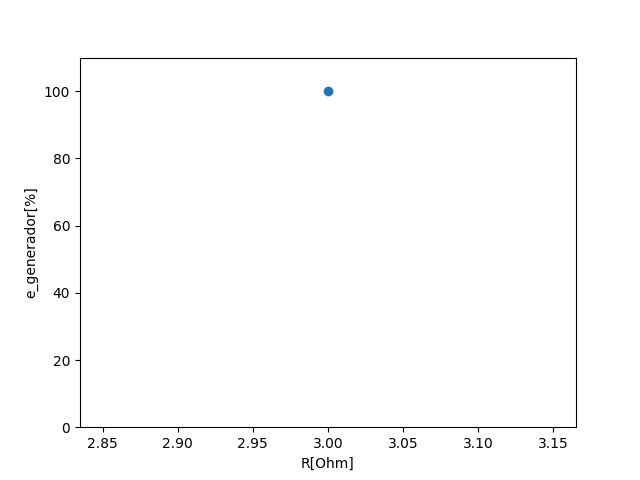
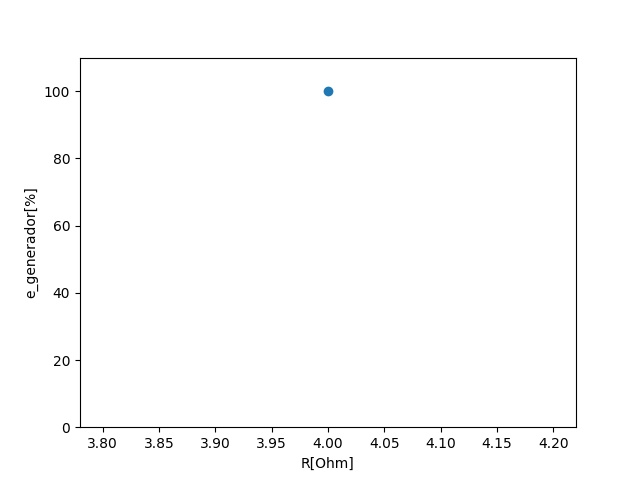
Version al 85%

diff --git a/Web/templates/datos.html b/Web/templates/datos.html
@@ -12,7 +12,7 @@
                 <th>Tiempo</th>
                 <th>Potencia</th>
                 <th>Eficiencia del generador</th>
-                <th>Eficiencia del motor</th>
+                <th>Eficiencia de la turbina</th>
             </tr>
         </thead>
         <tbody>

diff --git a/Web/graficas.py b/Web/graficas.py
@@ -1,11 +1,7 @@
 import matplotlib as mlp
 mlp.use('Agg')
 import matplotlib.pyplot as plt
-#from numba import  jit
-#Módulos propios
-#import gatheringData as gDa
 
-#Poner conex
 r = (12/1.87) #[Ohm]
 listaP = []
 listaRPM = []
@@ -31,20 +27,7 @@ P = 0
 em = 0
 ed = 0
 
-'''ax.plot(rpm, em,'o-')
-ax.set_xlabel('RPM')
-ax.set_ylabel('ef_m[%]')'''
 
-#axem.plot(R , em)#, 'o-')
-#axem.set_xlabel('R[Ohm]')
-#axem.set_ylabel('e_generador[%]')
-'''axet.plot(R , ed , 'o')
-axet.set_xlabel('R[Ohm]')
-axet.set_ylabel('e_motor[%]')'''
-#axet.plot(rpm , P , 'o-')
-#plt.show()  
- 
-#@jit 
 def graficaPotencia(arduino_lectures):
     
     displayList = []
@@ -65,13 +48,6 @@ def graficaPotencia(arduino_lectures):
     listalRpms = []
     mlp.rcParams.update({'font.size': 10})
     pivote2=1
-    
-    '''for j in range(len(arduino_lectures)):
-        RList = arduino_lectures[j][0]
-        rpmList = arduino_lectures[j][1]'''
-        #PList = arduino_lectures[j][7]
-        #efgList = arduino_lectures[j][8]
-        #efmList = arduino_lectures[j][9]
     
     if len(arduino_lectures) >= 7:
         for i in range(len(arduino_lectures)):
@@ -118,7 +94,7 @@ def graficaPotencia(arduino_lectures):
                             
                 except ZeroDivisionError:
                     print("errors")
-            if len(listaR)==49:
+            if len(listaR)==39:
                 print("final antes de agregar: ",listalr)
                 print("final Pot antes de agregar: ",listalP)
                 print("final Em antes de agregar: ",listalEm)
@@ -210,9 +186,9 @@ def graficaPotencia(arduino_lectures):
                 ax.plot(psR, psEd,'o-')
                 ax.set_ylabel([0,110])
                 ax.set_xlabel('R[Ohm]')
-                ax.set_ylabel('e_dinamo[%]')
+                ax.set_ylabel('e_turbina[%]')
                 plt.savefig('static/img/imageEfTurbina.jpg')
-                plt.show()
+
                 listaR.clear()
                 listaR1.clear()
                 listaR2.clear()
@@ -224,30 +200,3 @@ def graficaPotencia(arduino_lectures):
                 print("Lista Em vacía: " , listaR2)
                 print("Lista RPM vacía:" , listaR4)
     
-    #ax.plot(PList,rpmList, 'o-')
-    ##ax.plot(rpm, ed,'o-')
-    #ax.plot(listaefm, listaRPM,'o-')
-    #ax.plot(listaRPM, listaefm,'o-')
-    #ax.set_xlabel('RPM')
-    #ax.set_ylabel('ef_m[%]')
-    #plt.show()
-    #plt.savefig('static/img/image.jpg') 
-    
-    '''
-    axem.plot(psR , ed , 'o-')
-    axem.plot(listaefm , listaR  , 'o-')
-    axem.plot(listaR , listaeft  , 'o-')
-    axem.set_xlab0el('R[Ohm]')
-    axem.set_ylabel('e_generador[%]')
-    plt.savefig('static/img/imageEfmotor.jpg')
-
-    #axet.plot(R , em , 'o-')
-    #axet.plot(listaefm , listaR , 'o-')
-    ##axet.plot(listaR , listaefm , 'o-')
-    axet.set_xlabel('R[Ohm]')
-    axet.set_ylabel('e_motor[%]')
-    plt.savefig('static/img/imageEfTurbina.jpg')'''
-
-    
-#arduino_lectures = [[398.0, 0.0, 0.0, 0.0, 1.0, 0.0002, 1213.0], [399.0, 0.0, -225.0, -0.0422, -1.0, -0.0002, 1216.0], [400.0, 0.0, 0.0, 0.0, 1.0, 0.0002, 1219.0], [401.0, 0.0, 0.0, 0.0, 0.0, 0.0, 1222.0], [402.0, 0.0, 0.0, 0.0, -1.0, -0.0002, 1225.0], [403.0, 0.0, 5.0, 0.0009, 1.0, 0.0002, 1228.0], [404.0, 0.0, 0.0, 0.0, 1.0, 0.0002, 1231.0], [405.0, 0.0, 0.0, 0.0, 0.0, 0.0, 1234.0], [406.0, 0.0, 4.0, 0.0007, 0.0, 0.0, 1237.0], [407.0, 0.0, 0.0, 0.0, -1.0, -0.0002, 1240.0], [408.0, 0.0, 0.0, 0.0, 0.0, 0.0, 1243.0], [409.0, 0.0, 2.0, 0.0004, 1.0, 0.0002, 1246.0], [410.0, 0.0, 0.0, 0.0, 0.0, 0.0, 1249.0], [411.0, 0.0, 0.0, 0.0, 0.0, 0.0, 1252.0]]
-#graficaPotencia(1)

diff --git a/Manual/Manual_de_usuario.md b/Manual/Manual_de_usuario.md
@@ -14,55 +14,75 @@
 
 
 
+
+
+
+
+
+
+
+
+
+
+
+
 ## Índice:
 
 
 
 
 
-1. ### Instalación
+1. ### Instalación y conexión.
 
    
 
-    1. #### Mac OS y Ubuntu
+    1. #### Mac OS y Ubuntu.
 
-    2. #### Windows
+    2. #### Windows.
 
        
 
-2. ### Adquisición de datos
+2. ### Inicio.
 
-   
+     
 
-3. ### Reportes
+3. ### Adquisición de datos.
 
-   
+    
 
-4. ### Consultas a datos
+4. ### Reportes.
 
-   
+    
 
-5. ### Consultas a reportes
+5. ### Consultas a datos.
 
+    
 
-
-
-
-
+6. ### Consultas a reportes.
 
 
 
-# 1. Instalación
 
 
 
-1.1. Mac OS y Ubuntu
+
+
+
+# 1. Instalación.
+
+
+
+## 1.1. Mac OS y Linux.
 
 Ingrese a: https://github.com/IsauraRs/Turbina y en la pestaña "Code", seleccione la opción "Download ZIP". 
 
-Nota: de click derecho sobre el enlace y seleccione "Abrir enlace en una nueva pestaña" o saldrá del manual.
+_**Nota**: de click derecho sobre el enlace y seleccione "Abrir enlace en una nueva pestaña" o saldrá del manual._
+
+
 
 ![downloads](https://github.com/IsauraRs/Turbina/blob/master/Manual/downloadSS.png)
+
+
 
 Una vez terminada la descarga, extraiga la carpeta "Turbina-master" en una ubicación que conozca y/o recuerde.
 
@@ -80,23 +100,160 @@ Y después:
 
 Lo siguiente que aparecerá en su terminal debe parecerse a:
 
+
+
 ![macSS](https://github.com/IsauraRs/Turbina/blob/master/Manual/macSS.png)
+
+
 
 En  MacOS, o a:
 
+
+
 ![ubuntuSS](https://github.com/IsauraRs/Turbina/blob/master/Manual/ubuntuSS.png)
 
-En Ubuntu. Es probable que a usted no le aparezcan las alertas que aparecen en amarillo.
 
-Una vez realizado este paso, salga a la carpeta "Turbina-master" e ingrese a  la carpeta "Web" (en la terminal), ya que haya ingresado escriba el siguiente comando:
+
+En Linux. Es probable que a usted no le aparezcan las alertas que aparecen en amarillo.
+
+_**Nota** : En caso de que aparezca un error con pyserial o serial, tendrá que desinstalarlas e instalarlas manualmente de la siguiente manera._
+
+```
+sudo pip3 uninstall pyserial
+```
+
+```
+sudo pip3 install pyserial
+```
+
+Para el caso de pyserial. Y:
+
+```
+pip3 uninstall serial
+```
+
+```
+sudo pip3 install serial
+```
+
+
+
+## Conexión.
+
+En MacOS: ingrese al menú en el logo "Apple", de click en "Preferencias del Sistema" y posteriormente de click en "Bluetooth".
+
+ Busque en la lista el dispositivo de nombre "GUS", de click en él y luego en "Conectar", en caso de que solicite la contraseña ingrese " 1234 " o " 0000 ".
+
+En Linux: Ingrese a "Configuración", diríjase a "Bluetooth" y seleccione el dispositivo de nombre "GUS", ingrese la contraseña " 1234 ", en caso de que la contraseña sea incorrecta, ingrese " 0000 ".
+
+Si su distribución es Ubuntu (o alguna distribución basada en Debian) y falla la conexión con el paso anterior, vaya nuevamente a "Configuración", seleccione el dispositivo "GUS", revise y copie la dirección del dispositivo.
+
+
+
+![BTdirection](https://github.com/IsauraRs/Turbina/blob/master/Manual/BTdir.png)
+
+ 
+
+Abria una nueva terminal e ingrese los siguientes comandos:
+
+```
+sudo apt-get update
+```
+
+```
+sudo apt-get upgrade
+```
+
+```
+sudo apt-get install bluez bluetooth blueman
+```
+
+```
+sudo systemctl start bluetooth
+```
+
+```
+sudo bluetoothctl
+```
+
+Ya que esté dentro de bluetoothctl, defina "default-agent":
+
+```
+default-agent
+```
+
+Y busque los dispositivos:
+
+```
+scan on
+```
+
+Empareje el dispositivo cuya dirección corresponda a la de "GUS":
+
+```
+pair 20:18:07:13:62:E2
+```
+
+Establezca el dispositivo como dispositivo de confianza
+
+```
+trust 20:18:07:13:62:E2
+```
+
+_**Nota**: esta es la configuración inicial en caso de fallar el método convencional de conexión, por lo que solo es necesario realizarla la primera vez. 
+En adelante los únicos pasos que tendrá que realizar son los siguientes._
+
+```
+sudo hciconfig hci0 up
+```
+
+```
+sudo rfcomm bind 0 20:18:07:13:62:E2 1
+```
+
+```
+sudo rfcomm connect 0 20:18:07:13:62:E2
+```
+
+Si falla, realice lo siguiente:
+
+```
+sudo rfcomm release 0
+```
+
+```
+sudo rfcomm connect 0 20:18:07:13:62:E2
+```
+
+
+
+# 2. Inicio.
+
+Para iniciar la aplicación, una vez realizada la instalación y, en caso de requerirlo, la conexión, en la terminal, vaya a la carpeta "Turbina-master" e ingrese a  la carpeta "Web", ya que haya ingresado ejecute el siguiente comando:
 
 ```
 python3 app.py 
 ```
 
-En caso de que no tenga conectado un arduino, le aparecerá un cuadro de alerta (o más de uno).
+En caso de que no tenga conectado un *Arduino*, le aparecerá un cuadro de alerta (o más de uno).
+
+
 
 ![tkWarning](https://github.com/IsauraRs/Turbina/blob/master/Manual/tkSS.png)
 
+
+
 Basta con pulsar el botón "OK", si su intención es realizar búsquedas, si su intención es realizar pruebas, será necesario conectar el Sistema de Adquisición de Datos.
+
+Hecho lo anterior, abra su navegador web y en el buscador escriba  http://127.0.0.1:5000/ , lo que lo llevará a la página principal del Sistema de Adquisición de Datos.
+
+
+
+![PaginaPrinc](https://github.com/IsauraRs/Turbina/blob/master/Manual/ppsdad.png)
+
+
+
+# 3. Adquisición de datos.
+
+Para comenzar la toma de datos, presione el botón "Begin test".
 
